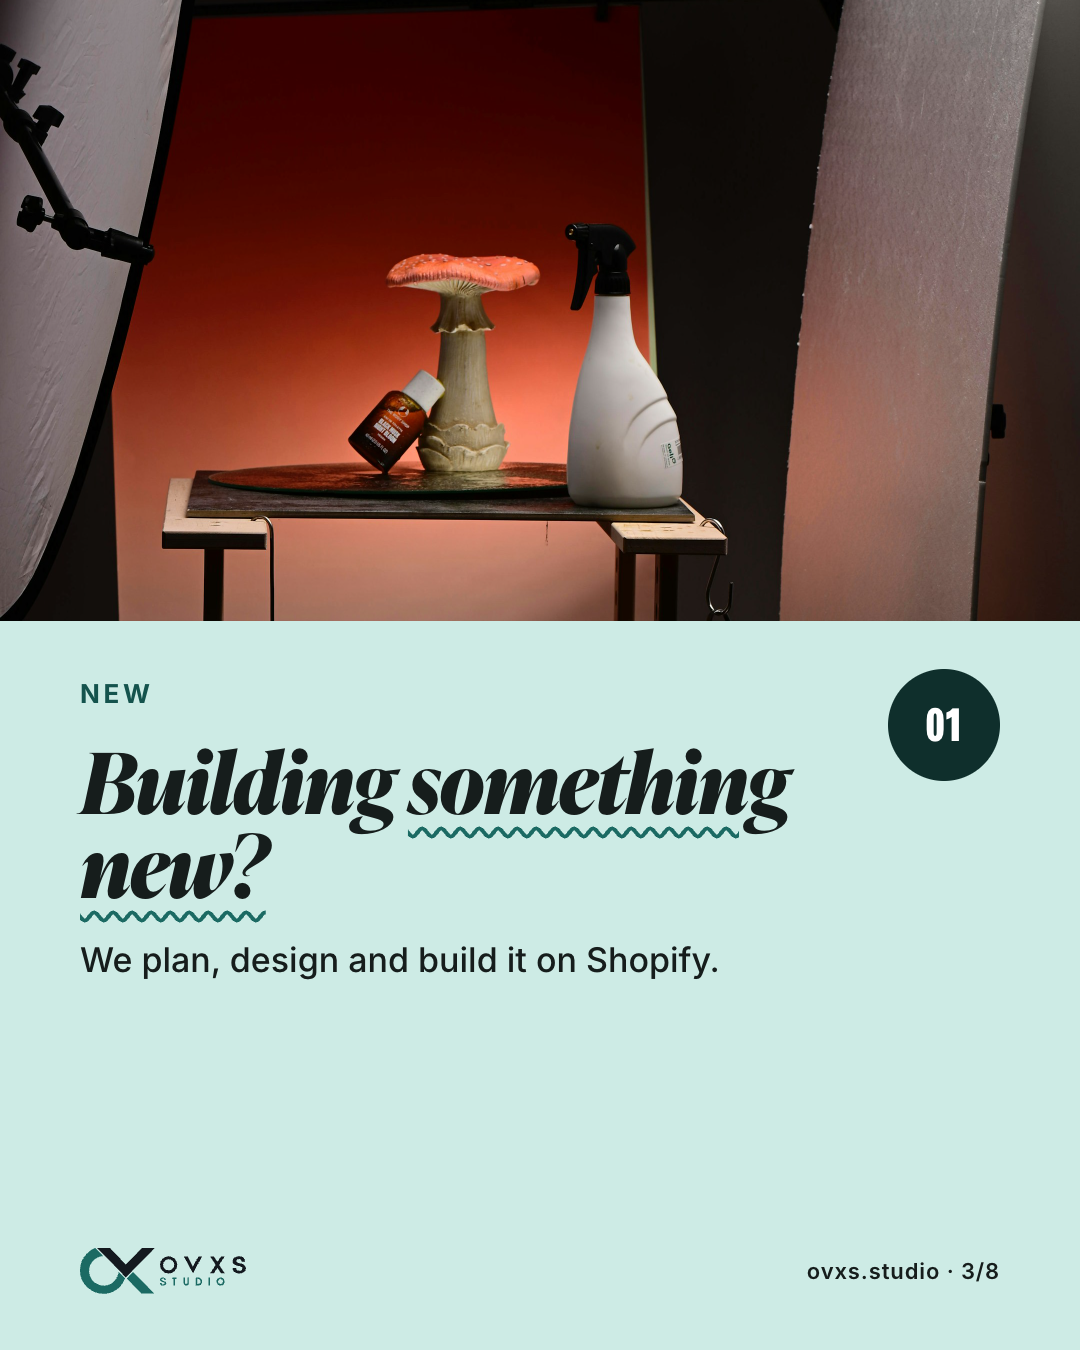
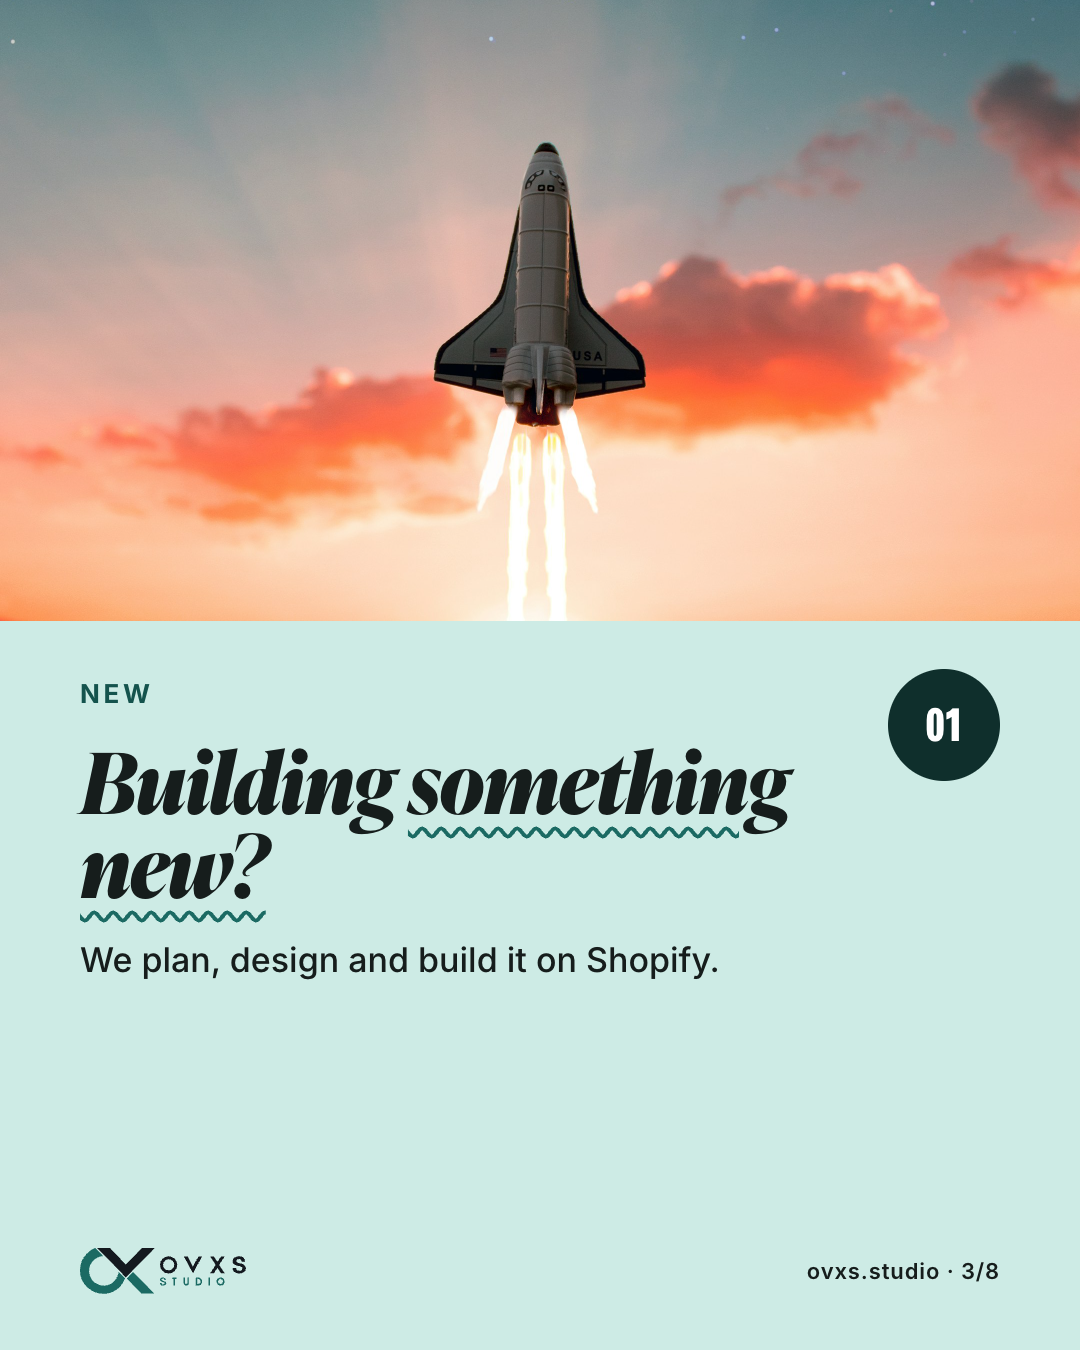
content: daily run 2026-11-16 — test intro piece: Ramit's Desk photo picks synced, back in review

diff --git a/topics/2026-11-14-what-studio-ovxs-does-test/page.html b/topics/2026-11-14-what-studio-ovxs-does-test/page.html
@@ -133,7 +133,7 @@ Link in comments.
       <div>
         <div class="h3">Graphic · 4:5</div>
         <div class="frame"><div class="board bg-primary ph-on" id="li-graphic">
-          <div class="ph" style="background-image:url(assets/cover.jpg)"></div>
+          <div class="ph" style="background-image:url(assets/li.jpg)"></div>
           <div class="pn">
             <div class="ey">Studio OVXS · Shopify studio</div>
             <h2 class="hd" style="font-size:82px;max-width:900px">Building better <span style="white-space:nowrap">e-commerce.</span> <em>From strategy to store.</em></h2>

diff --git a/topics/2026-11-14-what-studio-ovxs-does-test/brief.md b/topics/2026-11-14-what-studio-ovxs-does-test/brief.md
@@ -31,9 +31,18 @@ Skipped: Ramit’s own copy, used as is. No statistics are used, so nothing need
 - Make (final): all six formats.
 - Decided on: 2026-11-14, drafted the same day in an interactive session.
 - 2026-11-16: Ramit re-decided A with “Remove pricing from Angle A”. Daily run removed every project price (Launch, Move, Growth) and the “we publish our prices” lines from all six formats. Slides 3–5 now say what we do for each kind of business (slide 4 no longer leads with the audit). Kept the $99 video audit as the CTA, since it’s the offer itself, not a price list. Added one paragraph to the article (what we bring) to keep it above 800 words.
+- 2026-11-16 (evening daily run): Ramit asked for new photos (swap) on the Desk, then picked them himself with Generate on all five photo graphics. Those picks are new and not reused, so they count as the swap. Synced them locally: LinkedIn graphic, slide 1 (cover), 3, 4 and 5. The LinkedIn graphic now has its own photo file (`li.jpg`), separate from the slide 1 cover. Copy unchanged; back in review.
 
 ## Photos
-See assets/credits.json.
+| Graphic | File | Photo | Photographer |
+|---|---|---|---|
+| LinkedIn graphic | assets/li.jpg | [Unsplash pVfYvqX_jos](https://unsplash.com/photos/pVfYvqX_jos) (gold star medal from a gift box) | Kingsley Mkpandiok |
+| Slide 1 (cover) | assets/cover.jpg | [Unsplash ejhjSZKTeeg](https://unsplash.com/photos/ejhjSZKTeeg) (person using a laptop) | Roberto Cortese |
+| Slide 3 (new) | assets/new.jpg | [Unsplash YOy-ek-aBR0](https://unsplash.com/photos/YOy-ek-aBR0) (shuttle launch at golden hour) | Iván Martínez Díaz |
+| Slide 4 (fix) | assets/fix.jpg | [Unsplash 2uE2yhyTFrQ](https://unsplash.com/photos/2uE2yhyTFrQ) (man working on a laptop) | Andrew Valdivia |
+| Slide 5 (scale) | assets/scale.jpg | [Unsplash Nt8eTN62nUI](https://unsplash.com/photos/Nt8eTN62nUI) (craftsman at a workbench) | T |
+
+All picked by Ramit on the Desk (Generate), 2026-11-16. Full credits in assets/credits.json.
 
 ## SEO (articles only)
 - Target keyword: Shopify studio
